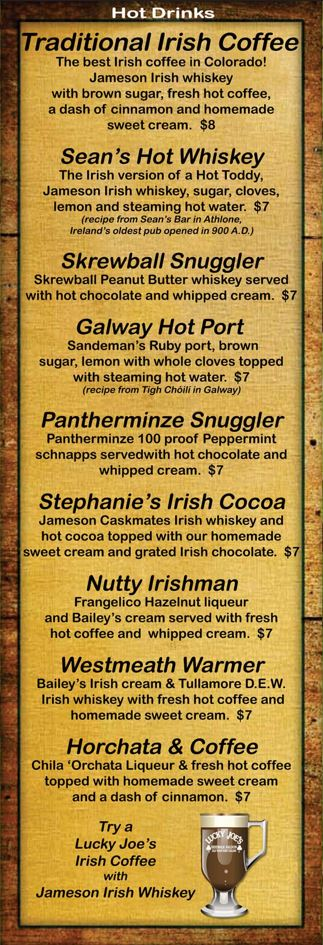
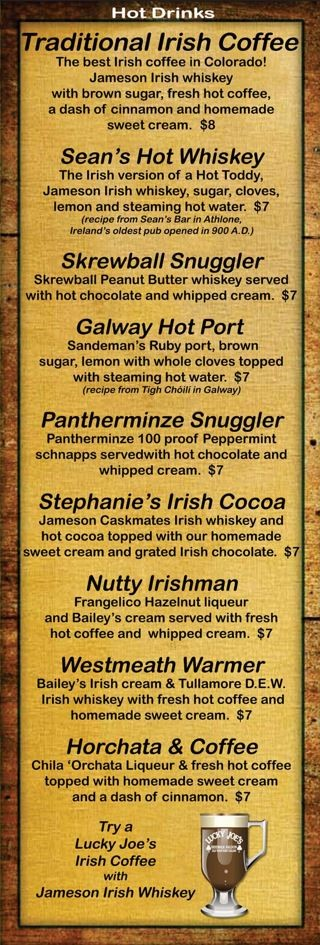
Fixed Menu photos and adapted for mobile

Changed region(s): [[0.0938, 0.0, 1.0, 1.0]]

diff --git a/src/app/pages/drinks/drinks.css b/src/app/pages/drinks/drinks.css
@@ -2,20 +2,17 @@
   display: flex;
   align-items: center;
   max-width: 2000px;
-  margin: 0 auto;
-margin-top: 3.3rem;
-margin-bottom: 3.2rem;
+
 }
 
 .desktop-img {
   display: flex;
   align-items: center;
   max-width: 2000px;
-  margin: 0 auto;
-margin-top: 3.3rem;
-margin-bottom: 3.2rem;
-margin-left: 2rem;
-margin-right: 2rem;
+margin: 3.3rem auto 3.2rem auto;
+padding: 0 0rem; /* Adds breathing room without breaking centering */
+
+border:  5px solid #C5B358;
 }
 
 .mobile-img {
@@ -27,7 +24,7 @@ margin-right: 2rem;
     display: none;
   }
   .mobile-img {
-  
+  width: 100%;
   display: flex;
   align-items: center;
   max-width: 2000px;

diff --git a/src/app/pages/menu/menu.css b/src/app/pages/menu/menu.css
@@ -5,4 +5,25 @@
   margin: 0 auto;
 margin-top: 3.3rem;
 margin-bottom: 3.2rem;
+border:  5px solid #C5B358;
+}
+.mobile-img {
+  display: none;
+}
+
+
+@media (max-width: 768px) {
+  .menu {
+    display: none;
+  }
+.mobile-img {
+  display: flex;
+  justify-content: center;
+  align-items: center;
+  width: 100%;              /* Ensures it never overflows viewport */
+  max-width: 1000px;        /* Optional upper limit */
+  margin: 0 auto;
+
+  box-sizing: border-box;
+}
 }

diff --git a/src/app/app.css b/src/app/app.css
@@ -5,7 +5,7 @@
   justify-content: space-between;
   padding: 7rem 3rem;
   flex-wrap: wrap;
-    gap: 0rem;  
+  gap: 0rem;  
   position: relative; 
   
 }
@@ -291,7 +291,7 @@ body.sidebar-open {
 }
 
 .logo {
-  height: 250px;
+  height: 300px;
   display: block;
   max-width: 100%;
 }

diff --git a/src/app/home.css b/src/app/home.css
@@ -63,7 +63,7 @@ margin-bottom: 0;
 
 .text-section {
   flex: 1; /* 1/3 of the width */
-  color:  rgb(238, 229, 58);
+  color: #C5B358;
   padding: 2rem;
   background-color: #000000;
   display: flex;

diff --git a/src/app/pages/menu/menu.html b/src/app/pages/menu/menu.html
@@ -1,1 +1,4 @@
 <img src="Menu.jpg" class="menu" />
+
+<img src="FoodMenu_1.JPG" class="mobile-img" alt="Mobile Image">
+<img src="FoodMenu_2.JPG" class="mobile-img" alt="Mobile Image">
